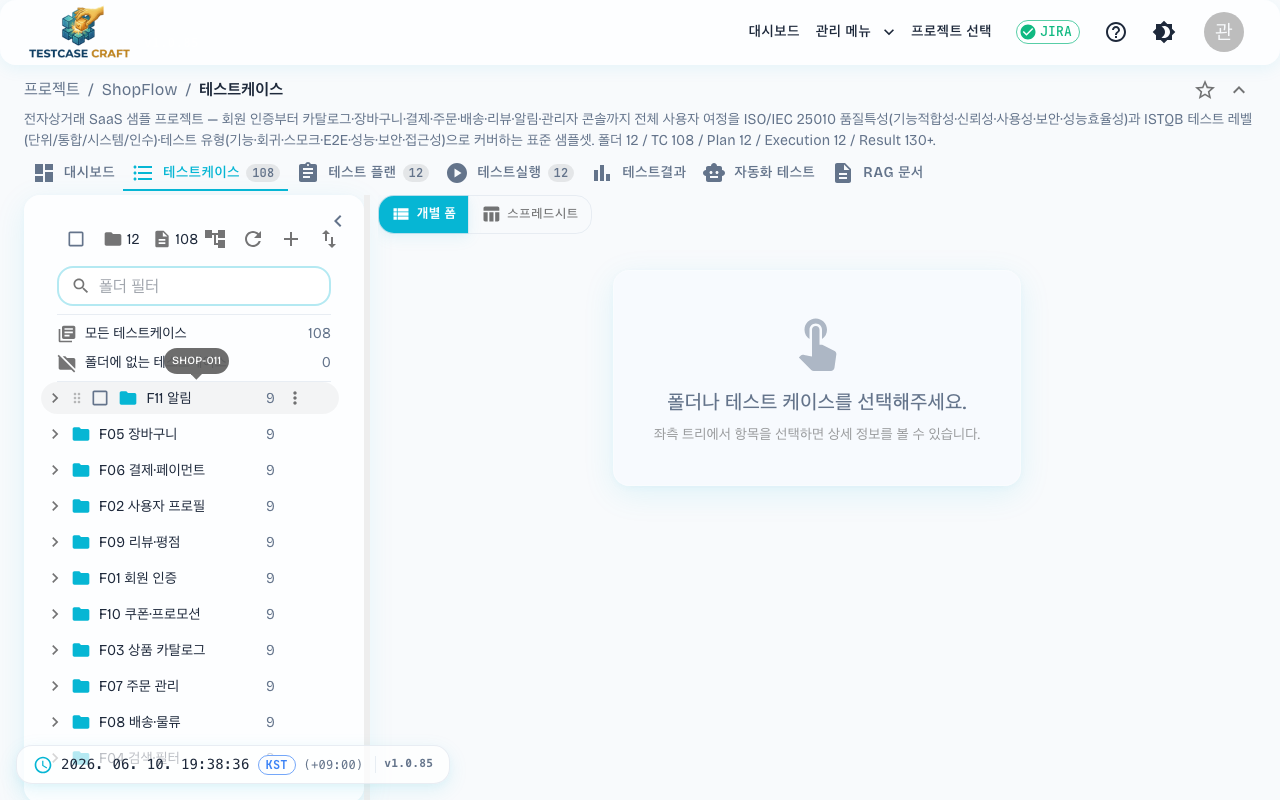
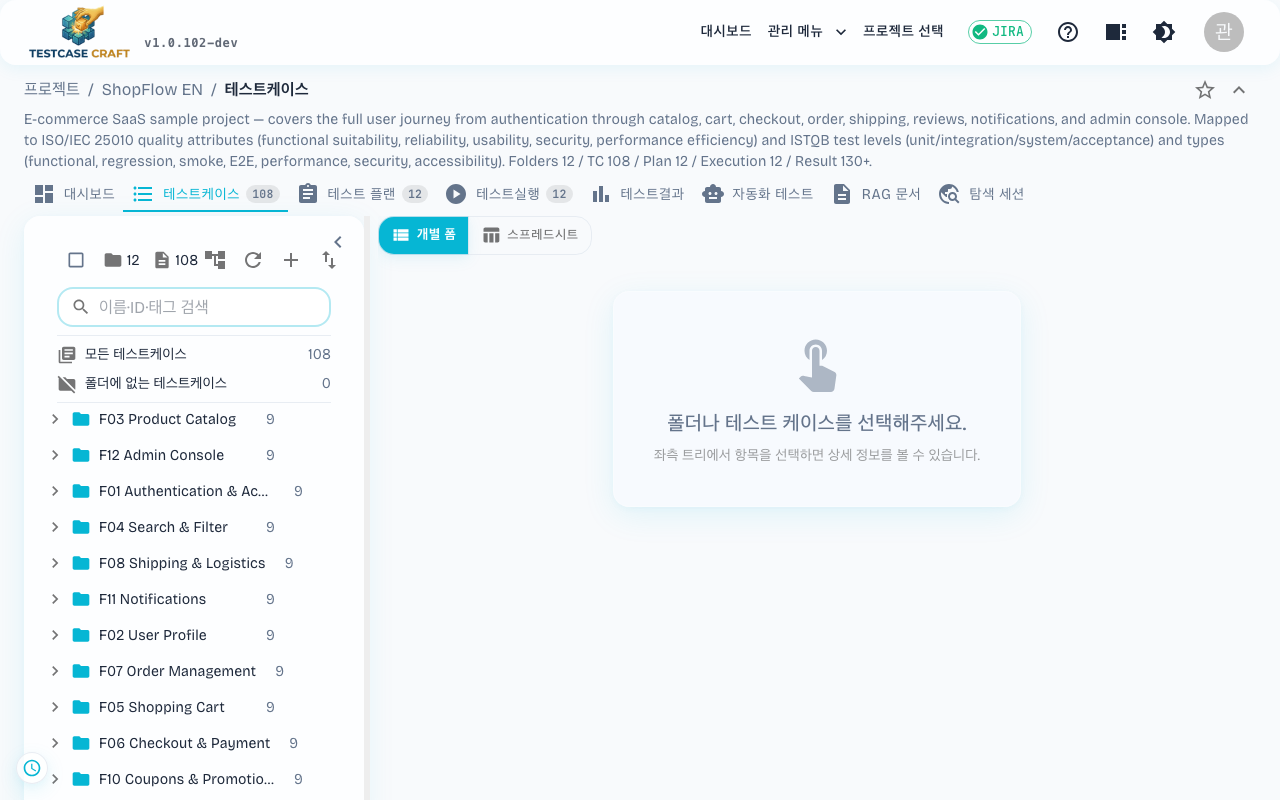
docs(manual): 2026-07-02 이후 UI 변경 반영 (한/영) + 캡처 15장
마지막 갱신(2026-07-02) 이후의 화면 변경을 매뉴얼에 넣었다. 라우트는 그대로여서
커버리지 감사로는 잡히지 않고 화면 안에서만 달라진 것들이다.

- §3 화면 구성 — 레이아웃 선택(가로 탭 / 좌측 메뉴), 좌측 메뉴 접기, 브레드크럼의
  프로젝트 선택기
- §4-4 트리 — 검색창이 이름·표시 ID·태그를 함께 찾는다(콤마로 여러 개). 검색으로
  좁힌 상태에서 전체 선택하면 보이는 결과만 선택된다
- §7 테스트 플랜 — 좌측 메뉴에서 목록 + 상세 2단. 가지를 펼쳐 실행을 열고
  '플랜으로 돌아가기'로 복귀, '실행 만들기'는 고른 플랜을 물려받는다
- §8 테스트 실행 — 실행 목록 2단(상태 칩 + 소속 플랜 이름, 서버 이름 검색,
  '더 보기'), 필터에 결과 태그 항목
- §8-1 결과 입력 — 그 테스트케이스의 첨부파일을 함께 본다
- §13-7 프로필 — 테마 설정의 '메뉴 구조'에서 레이아웃을 고른다
- 문서 머리를 v1.0.102-dev · 최종 갱신 2026-07-31 로, 변경 이력에 행 추가

두 레이아웃 중 신규(좌측 메뉴)에서만 달라지는 부분은 §7·§8에 그렇게 적었다 —
가로 탭을 쓰는 사용자에게는 종전 화면 그대로다.

이미지는 한국어 images/ 와 영문 images_en/ 에 각 15장. 신규 6장(좌측 메뉴·접힘·
프로젝트 선택기·플랜 2단·실행 목록·트리 검색), 갱신 9장(트리·케이스 상세·실행
필터·결과 화면). 영문은 UI 언어를 en 으로 바꾸고 ShopFlow EN 데이터로 찍은 뒤
언어를 원복했다.

manual_capture.py 보강:
- 신규 STEPS 6종과 조작 헬퍼 7종(레이아웃 전환·사이드바 접기·프로젝트 선택기·
  플랜 2단·실행 목록·트리 검색)
- 캡처 시작 시 레이아웃을 기본값(가로 탭)으로 고정하고 끝나면 되돌린다. 레이아웃은
  계정에 저장돼서 좌측 메뉴로 바꿔 둔 상태가 남으면 기존 캡처가 통째로 다른 화면으로
  찍힌다(이번 실행에서 실제로 그 상태였다)

검증: 매뉴얼이 참조하는 이미지 62개가 한/영 모두 실존(누락 0), 섹션 20개 유지,
라우트 커버리지 감사 누락 0.

diff --git a/scripts/manual_capture.py b/scripts/manual_capture.py
@@ -163,6 +163,91 @@ def open_prev_results_dialog(page: Page) -> None:
     page.wait_for_timeout(800)
 
 
+def _origin(page: Page) -> str:
+    """현재 페이지의 origin (http://host:port) — prepare 는 base_url 을 받지 않는다."""
+    m = re.match(r"https?://[^/]+", page.url)
+    if not m:
+        raise RuntimeError(f"origin 을 알 수 없는 URL: {page.url}")
+    return m.group(0)
+
+
+def set_ui_preference(page: Page, key: str, value) -> None:
+    """서버에 저장되는 사용자 UI 설정을 캡처 전에 확정한다.
+
+    레이아웃(가로 탭 / 좌측 메뉴)은 계정에 남는다. 직전 작업에서 좌측 메뉴로 바꿔 뒀으면
+    다음 캡처가 통째로 다른 화면으로 찍히므로, 값을 가정하지 않고 매번 정한다.
+    """
+    token = page.evaluate("() => localStorage.getItem('accessToken')")
+    if not token:
+        raise RuntimeError("accessToken 이 없다 — 로그인 세션 확인 필요")
+    resp = page.context.request.patch(
+        f"{_origin(page)}/api/auth/me/preferences",
+        headers={
+            "Authorization": f"Bearer {token}",
+            "Content-Type": "application/json",
+        },
+        data={"key": key, "value": value},  # 서버는 단일 key patch 형식을 받는다
+    )
+    if not resp.ok:
+        raise RuntimeError(f"UI 설정 저장 실패 ({key}={value}): status={resp.status}")
+    page.reload()
+    page.wait_for_load_state("domcontentloaded")
+    page.wait_for_timeout(900)
+
+
+def use_sidebar_layout(page: Page) -> None:
+    """신규 레이아웃(좌측 메뉴)으로 전환."""
+    set_ui_preference(page, "projectNavSidebarCollapsed", False)
+    set_ui_preference(page, "projectNavMode", "sidebar")
+    page.wait_for_selector('[data-testid="project-sidebar"]', timeout=10_000)
+
+
+def use_tab_layout(page: Page) -> None:
+    """기존 레이아웃(가로 탭)으로 되돌린다 — 나머지 캡처의 기준값."""
+    set_ui_preference(page, "projectNavMode", "tabs")
+
+
+def collapse_sidebar(page: Page) -> None:
+    """좌측 메뉴를 아이콘만 남기고 접는다."""
+    use_sidebar_layout(page)
+    page.locator('[data-testid="project-sidebar-collapse-toggle"]').click()
+    page.wait_for_timeout(600)
+
+
+def open_breadcrumb_project_switcher(page: Page) -> None:
+    """신규 레이아웃의 브레드크럼 첫 크럼(프로젝트 선택기)을 펼친다."""
+    use_sidebar_layout(page)
+    page.locator('[data-testid="breadcrumb-project-switcher"]').click()
+    page.wait_for_selector('[data-testid="breadcrumb-project-menu"]', timeout=10_000)
+    page.wait_for_timeout(500)
+
+
+def open_plan_workspace(page: Page) -> None:
+    """플랜 영역의 2단 화면에서 첫 플랜을 골라 오른쪽에 내용이 열린 상태로 만든다."""
+    use_sidebar_layout(page)
+    row = page.locator('[data-testid^="workspace-primary-item-"]').first
+    row.wait_for(timeout=10_000)
+    row.click()
+    page.wait_for_timeout(1_200)
+
+
+def open_execution_workspace(page: Page) -> None:
+    """실행 영역의 평면 목록(상태 칩 + 소속 플랜 이름)이 보이는 상태."""
+    use_sidebar_layout(page)
+    page.wait_for_selector(
+        '[data-testid^="workspace-execution-item-"]', timeout=15_000
+    )
+    page.wait_for_timeout(800)
+
+
+def fill_tree_filter(page: Page) -> None:
+    """트리 검색창에 값을 넣어 이름·표시 ID·태그 검색(ICT-428) 결과를 보여준다."""
+    box = page.locator('[data-testid="tree-filter-input"]')
+    box.wait_for(timeout=10_000)
+    box.fill("TC")
+    page.wait_for_timeout(900)
+
+
 def tree_right_click(page: Page) -> None:
     """트리의 첫 폴더 노드에서 우클릭 → 컨텍스트 메뉴 노출.
 
@@ -529,6 +614,43 @@ STEPS: list[Step] = [
         prepare=open_qa_summary_panel,
         wait_ms=800,
     ),
+    # ── 20. 신규 화면 (2026-07-31) — 레이아웃 선택 · 플랜/실행 2단 · 검색·필터 ──
+    Step(
+        "95_sidebar_layout",
+        url=_project_path(""),
+        prepare=use_sidebar_layout,
+        wait_ms=900,
+    ),
+    Step(
+        "96_sidebar_collapsed",
+        url=_project_path(""),
+        prepare=collapse_sidebar,
+        wait_ms=700,
+    ),
+    Step(
+        "97_breadcrumb_project_switcher",
+        url=_project_path(""),
+        prepare=open_breadcrumb_project_switcher,
+        wait_ms=700,
+    ),
+    Step(
+        "98_plan_workspace",
+        url=_project_path("/testplans"),
+        prepare=open_plan_workspace,
+        wait_ms=900,
+    ),
+    Step(
+        "99_execution_workspace",
+        url=_project_path("/executions"),
+        prepare=open_execution_workspace,
+        wait_ms=900,
+    ),
+    Step(
+        "100_tree_filter_search",
+        url=_project_path("/testcases"),
+        prepare=fill_tree_filter,
+        wait_ms=800,
+    ),
 ]
 
 
@@ -794,6 +916,15 @@ def run(args: argparse.Namespace, pw: Playwright) -> int:
     project_id = resolve_project_id(page_auth, args.base_url, args.project_id)
     print(f"📁 PROJECT_ID = {project_id}")
 
+    # 레이아웃은 계정에 저장된다. 매뉴얼 캡처의 기준은 기본값(가로 탭)이므로,
+    # 직전에 좌측 메뉴로 바꿔 둔 상태가 남아 73장을 통째로 다르게 찍는 일을 막는다.
+    if not args.audit_only:
+        page_auth.goto(f"{args.base_url}/projects")
+        page_auth.wait_for_load_state("domcontentloaded")
+        set_ui_preference(page_auth, "projectNavSidebarCollapsed", False)
+        set_ui_preference(page_auth, "projectNavMode", "tabs")
+        print("🧭 레이아웃을 기본값(가로 탭)으로 맞췄습니다")
+
     ok = fail = 0
     if not args.audit_only:
         steps = filter_steps(STEPS, args.only, args.skip_todo, args.include_todo)
@@ -823,6 +954,15 @@ def run(args: argparse.Namespace, pw: Playwright) -> int:
                 fail += 1
 
         print(f"\n캡처 결과: ok={ok}  fail={fail}")
+
+        # 좌측 메뉴 캡처가 계정에 남지 않도록 기본 레이아웃으로 되돌린다
+        try:
+            page_auth.goto(f"{args.base_url}/projects")
+            page_auth.wait_for_load_state("domcontentloaded")
+            use_tab_layout(page_auth)
+            print("🧭 레이아웃을 기본값(가로 탭)으로 되돌렸습니다")
+        except Exception as e:  # pylint: disable=broad-except
+            print(f"⚠  레이아웃 원복 실패 — 프로필에서 직접 확인 필요: {e}")
 
     # ── 매뉴얼 커버리지 감사 ──────────────────────────────────────────────
     if args.audit or args.audit_only:

diff --git a/docs/manual/new/USER_MANUAL_EN.md b/docs/manual/new/USER_MANUAL_EN.md
@@ -1,7 +1,7 @@
 # TestcaseCraft User Manual
 
-> **Version:** v1.0.80 reference
-> **Created:** 2026-05-27 (Last updated 2026-06-06)
+> **Version:** v1.0.102-dev reference
+> **Created:** 2026-05-27 (Last updated 2026-07-31)
 > **Audience:** QA engineers, developers, and project managers using TestcaseCraft for the first time
 > **Environment:** This manual was captured in a local Docker environment (`http://localhost:8080`)
 > **Standards Basis:** This manual follows the principles of international standards on information design (IEC/IEEE 82079-1, ISO/IEC/IEEE 26514) — information type classification, audience-based structure, and procedure documentation.
@@ -157,6 +157,20 @@ Upon entering a project (`/projects/{projectId}`), the screen displays a three-s
 
 ### 3-2. JIRA Panel
 
+> **Changed 2026-07-31**: You can choose how project sections are laid out — **horizontal tabs** or a **left-side menu**. Pick one in Profile → Theme Settings → `Menu structure` (Section 13-7); the default remains the horizontal tabs used so far. The toggle icon in the top bar switches it right away.
+
+With the left-side menu, sections sit vertically on the left. The items and count badges match the horizontal tabs.
+
+![Left-side menu layout](images_en/95_sidebar_layout.png)
+
+Collapse it with the arrow at the bottom of the menu and only the icons remain, widening the content area.
+
+![Left-side menu collapsed](images_en/96_sidebar_collapsed.png)
+
+In this layout the first breadcrumb item is the **project selector** (`ShopFlow EN / Dashboard`). Click the project name to open the list and move to another project without leaving the section you were viewing. The former `Project /` crumb is folded away so the project name does not appear twice.
+
+![Project selector in the breadcrumb](images_en/97_breadcrumb_project_switcher.png)
+
 Click the **JIRA** badge in the header to navigate to the integration settings screen.
 
 ![JIRA panel](images_en/45_jira_panel.png)
@@ -271,7 +285,17 @@ Click these rows to display the corresponding case list on the right. These list
 
 #### Folder Filter
 
-Use the **Folder Filter** search box below the tree header to search folders by name. The tree filters on partial match, preserving parent paths of matched items and auto-expanding them. Clear the filter with the X button.
+Use the **search box** below the tree header to find cases and folders. The search hint reads **"Search by name, ID, or tag"**.
+
+- **Folder Filter** (previous name) — Search folders by name. Works on partial match; parent paths of matched items are preserved and auto-expanded.
+- **Display ID Search** — Search cases by their Display ID (example: `TC-12`). Supports partial matching.
+- **Tag Search** — Search cases by their attached tags.
+- **Complex Search** — Separate multiple search terms with commas (`,`); the results show items matching all conditions.
+- **Select All with Filter** — When search narrows the tree, clicking the **☑ Select All** button in the tree header selects only the visible results (hidden items are excluded).
+
+Clear the filter with the X button.
+
+![Search by name, ID, or tag](images_en/100_tree_filter_search.png)
 
 #### Add Folders or Cases
 
@@ -480,6 +504,12 @@ Click the **[Test Plans]** tab at the top (`/projects/{projectId}/testplans`) to
 
 > This new project has no plans yet. Once you create a plan, it displays as a card.
 
+> **Changed 2026-07-31 (new layout)**: With the left-side menu layout active, test plans display in a **2-section (list + detail)** format. The left panel shows the plan tree (with execution entries visible under each plan), and the right panel displays the selected plan's content. There is no popup or full-screen mode — everything stays within the layout. In the tab-based layout, the existing popup/full-screen behavior is preserved.
+
+![Plan workspace — tree + details](images_en/98_plan_workspace.png)
+
+Expand a branch on the left and that plan's executions appear under it. Select an execution and the right panel switches to the execution detail; `Back to plan` returns to the plan content. The `New run` button under the plan content inherits the plan you selected.
+
 ---
 
 ## 8. Test Execution
@@ -494,6 +524,12 @@ Click the **[Test Execution]** tab at the top (`/projects/{projectId}/executions
 
 > **Changed on 2026-06-09**: The test execution list **auto-refreshes about every 20 seconds**, so progress recorded by other team members appears without a manual reload. Auto-refresh pauses while you are on another tab to avoid unnecessary requests, and resumes when you return to the screen. You can also refresh instantly at any time using the **[Refresh]** button at the top of the list.
 
+> **Changed 2026-07-31 (new layout)**: With the left-side menu layout active, test execution displays in a **2-section (list + detail)** format. The left panel lists all executions in the project (newest first), and the right panel shows the selected execution's detail (result entry, etc.). The result entry screen does not break out into full-screen — it stays within the right panel while keeping the header and left menu intact. In the tab-based layout, the existing behavior is preserved.
+
+Each execution row carries a status chip and the name of the plan it belongs to. The search box queries execution names on the server, and `Load more` at the bottom pulls the next batch when the list is long.
+
+![Execution list — status and owning plan](images_en/99_execution_workspace.png)
+
 The manual execution flow is as follows:
 
 1. Click **[Start Execution]** from a test plan
@@ -502,6 +538,8 @@ The manual execution flow is as follows:
 4. On completion, results automatically reflect in **Test Results** and **dashboard statistics**
 
 > **Changed on 2026-06-09**: A **filter panel** was added above the case list inside an execution, letting you narrow cases by **result** (PASS/FAIL/BLOCKED/NOT RUN), **priority**, **executor**, **execution date**, **JIRA issue key**, and **notes**. When a filter is active, an **Active** indicator appears, and **[Clear]** removes all conditions at once.
+
+> **Changed 2026-07-31**: A **tag** filter item has been added to the filter panel. You can now filter results by the tags attached to them; both multi-select and direct input are supported. When saving results, if you do not enter tags, the previous tags are inherited (tags do not disappear).
 
 ![Execution detail — filter panel expanded](images_en/52b_execution_filter_panel.png)
 
@@ -517,6 +555,8 @@ Click a case within an execution to open the result entry screen (`/projects/{pr
 | **N** | Not Run | Not yet executed (default) |
 
 In addition to the result, you can record **notes** (free-form comments), **tags**, and **JIRA issue key**. At the bottom, the **previous result list** shows execution history for this case at a glance. Rows from this execution in the previous result list are visually distinguished, so you always know which results belong to the current run.
+
+> **Added 2026-07-31**: Near the top of the result entry screen, a **Test Case Attachments** section now displays. You can view attachments (screenshots, scripts, supporting documents, etc.) that are attached to this test case here. If opening a download link shows an error, refreshing the page will automatically update the list.
 
 **Previous Execution Results dialog — note view format toggle**
 
@@ -675,6 +715,11 @@ Generate a **connection key (token)** for use when connecting from other systems
 
 - **Screen Mode** — Choose Light or Dark mode (synchronized with the ◐ icon in the header)
 - **Design System** — Choose from two design styles: Glass (glass texture) or Material 3. Changes apply to the entire screen immediately.
+- **Menu Structure** (new) — Choose between two layout styles:
+  - `Current Layout — Horizontal Tabs`: Top tab-based navigation structure (default)
+  - `New Layout — Left-Side Menu`: Vertical menu on the left side, with a collapse icon to show only icons
+  - Layout changes take effect immediately and are saved per user on the server, persisting across logins from different computers
+  - In the new layout, test plans and test executions display in a 2-section format (list on left, details on right), and the breadcrumb's first item becomes the project selector
 
 ---
 
@@ -972,3 +1017,4 @@ A single user can be PM on Project A and VIEWER on Project B — permissions are
 | 2026-06-10 | Added new "QA Summary" subsection (Section 9-1) — panel shown above the Detail Table when an execution filter is selected, Markdown editor with live preview, saved per execution with author/last-modified time, printed above the "Detailed Test Result List" in Advanced Export PDF (not in Excel/CSV, up to 10,000 characters) with screenshot `92_qa_summary_panel`. Synchronized same section and screenshot (images_en) in Korean edition. |
 | 2026-07-02 | Reflected v1.0.93: added **[Delete]** to the Section 4-6 form header action buttons + new change note — the individual form delete is now unified with the tree delete (same confirmation dialog showing the target ID/name in a table, button hidden without permission, server message surfaced). Synchronized same section in Korean edition. |
 | 2026-07-02 | Reflected v1.0.93: new "Move / Copy to Another Project" subsection (Section 5-5) — select via tree checkboxes → **[Move/Copy to Project]** button → bulk operations dialog (target project/folder). Move carries results via mirroring and needs edit on both sides; copy duplicates cases only and needs view on source + edit on target. Added dedicated-button note to the Section 5-3 auto-blocked list. Also reflected in `test_case_manual.md` Section 3.7. Synchronized same sections in Korean edition. |
+| 2026-07-31 | Reflected UI changes since 2026-07-02 based on v1.0.102-dev. A(Layout selector): Section 3-1 header breadcrumb change + Section 13-7 theme settings add menu structure selection. B(Plans/Executions 2-section): Sections 7 and 8 add new layout descriptions (new layout only). C(Tree search): Section 4-4 filter refreshed — search by name/ID/tag, comma-separated complex search, select-all captures visible items only; new image 100_tree_filter_search. D(Result tags): Section 8 filter panel adds tag item — multi-select, direct input, tag inheritance. E(Attachments): Section 8-1 result entry screen adds test case attachments section. F(Linked items): existing Section 4 handles it (image updates only post-2026-07-02). Synchronized same sections/images (images_en) in Korean edition. |
